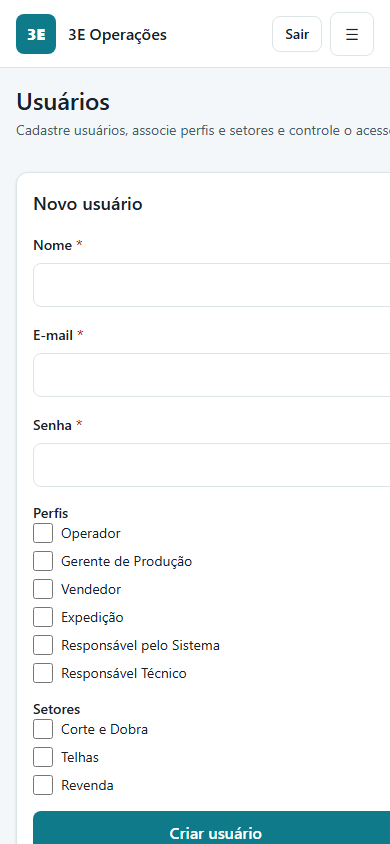
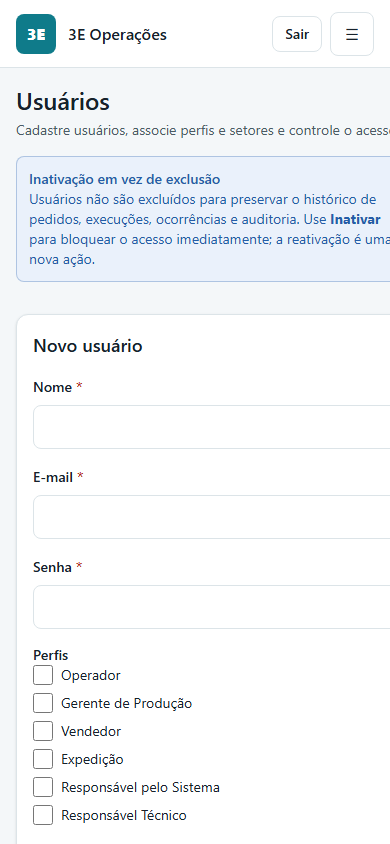
docs: atualizar evidencias de validacao e estado

Changed region(s): [[0.0615, 0.5545, 1.0, 1.0], [0.0308, 0.1848, 1.0, 0.3389], [0.0615, 0.3697, 0.3692, 0.5237]]

diff --git a/docs/validacao-hospedada.md b/docs/validacao-hospedada.md
@@ -177,3 +177,29 @@ Deploy do commit `c3f1ff0` (merge dos PRs #15 e #14) e validação dos fluxos al
 - **Ressalva**: o deploy reutilizou o token de projeto de 2026-10-25; **rotacionar/revogar** após a entrega. O banco do app continua compartilhado com o desenvolvimento.
 
 **Evidências**: `docs/video/validacao-prs-14-15/` e `docs/video/validacao-prod/`.
+
+---
+
+## 11. Atualização 2026-10-27 — correções de UI (professor/Saul)
+
+Deploy do commit `ce4fbd5` (correções de UI) com o ajuste final de recarga do histórico de prazos, e validação em produção.
+
+| Item | Local | Hospedado |
+| --- | --- | --- |
+| Unidades com vírgula e percentuais com 1 casa decimal | ✅ | ✅ |
+| Previsão de entrega na lista, detalhe, operador, expedição e impressão | ✅ | ✅ |
+| Histórico de prazos (auditoria) | ✅ | ✅ |
+| Remessa com número automático e Vendedor sem gestão de remessas | ✅ | ✅ |
+| Explicação do mapeamento e lista de mapeamentos | ✅ | ✅ |
+| Explicação da inativação de usuários | ✅ | ✅ |
+| Testes automatizados | **1037** verdes + 24 ignorados | mesmos artefatos |
+| Lint / typecheck / build | 0 erros (7 avisos) / OK / OK | — |
+| Playwright — correções de UI (`validar-correcoes-ui.mjs`) | **15/15** | **15/15** |
+| Playwright — responsivo/impressão | **11/11** | **11/11** |
+| Playwright — Operador | **9/9** | **9/9** |
+| `/api/health` / `/login` | — | **200 / 200** |
+
+- **Vídeo**: `docs/video/demo-completa-2026-10-27.mp4` (8m43s, legendas queimadas), com capítulo de app, alteração/restauração de prazo e capítulo de banco (DBeaver + consultas reais).
+- **Banco**: duas linhas de `DEADLINE_CHANGED` criadas na demonstração (06/12 → 13/12 e 13/12 → 06/12); o valor atual do item foi restaurado. Nenhum outro dado operacional foi alterado na gravação.
+- **Reestruturação do banco**: planejada em `docs/revisao-banco-professor.md`; não executada.
+- **Ressalva**: token de projeto do Railway ainda ativo; rotacionar/revogar.

diff --git a/.specs/STATE.md b/.specs/STATE.md
@@ -258,7 +258,7 @@ Executar uma primeira feature pelo `tlc-spec-driven`: **importar um pedido por n
 - **Trade-off**: O histórico usa a auditoria genérica (não uma tabela específica de prazos); a consulta é sob demanda. O Vendedor deixa de confirmar/remover remessas (API 403); a Expedição ainda não tem uma tela dedicada de remessas — a gestão continua no detalhe pelo Gerente até a migração do banco. A previsão da lista usa o **maior** prazo entre os itens (pedido completo), não o próximo prazo.
 - **Scope**: lista/detalhe do Vendedor e Gerente, atividade/ordem do Operador, Entregas, Administração (setores/usuários), imports de formatação, prazos, remessas, testes e documentação. Sem migração de banco.
 - **Date**: 2026-10-27
-- **Status**: active (implementada; 1034 testes, lint 0 erros, typecheck/build OK; validação de navegador e deploy em andamento).
+- **Status**: active (implementada; **1037 testes**, lint 0 erros, typecheck/build OK; Playwright **15/15** de UI; deploy e validação hospedada concluídos; vídeo completo em `docs/video/demo-completa-2026-10-27.mp4`).
 
 ### AD-024
 

diff --git a/docs/testes-locais.md b/docs/testes-locais.md
@@ -304,7 +304,7 @@ Novos testes: `painel-ocorrencias.test.ts`, `api/producao/ocorrencias/route.test
 
 | Gate | Resultado |
 | --- | --- |
-| `npm run test` | **1034 aprovados** + 24 de integração ignorados |
+| `npm run test` | **1037 aprovados** + 24 de integração ignorados |
 | `npm run lint` | 0 erros (7 avisos) |
 | `npm run typecheck` | OK |
 | `npm run build` | OK |
